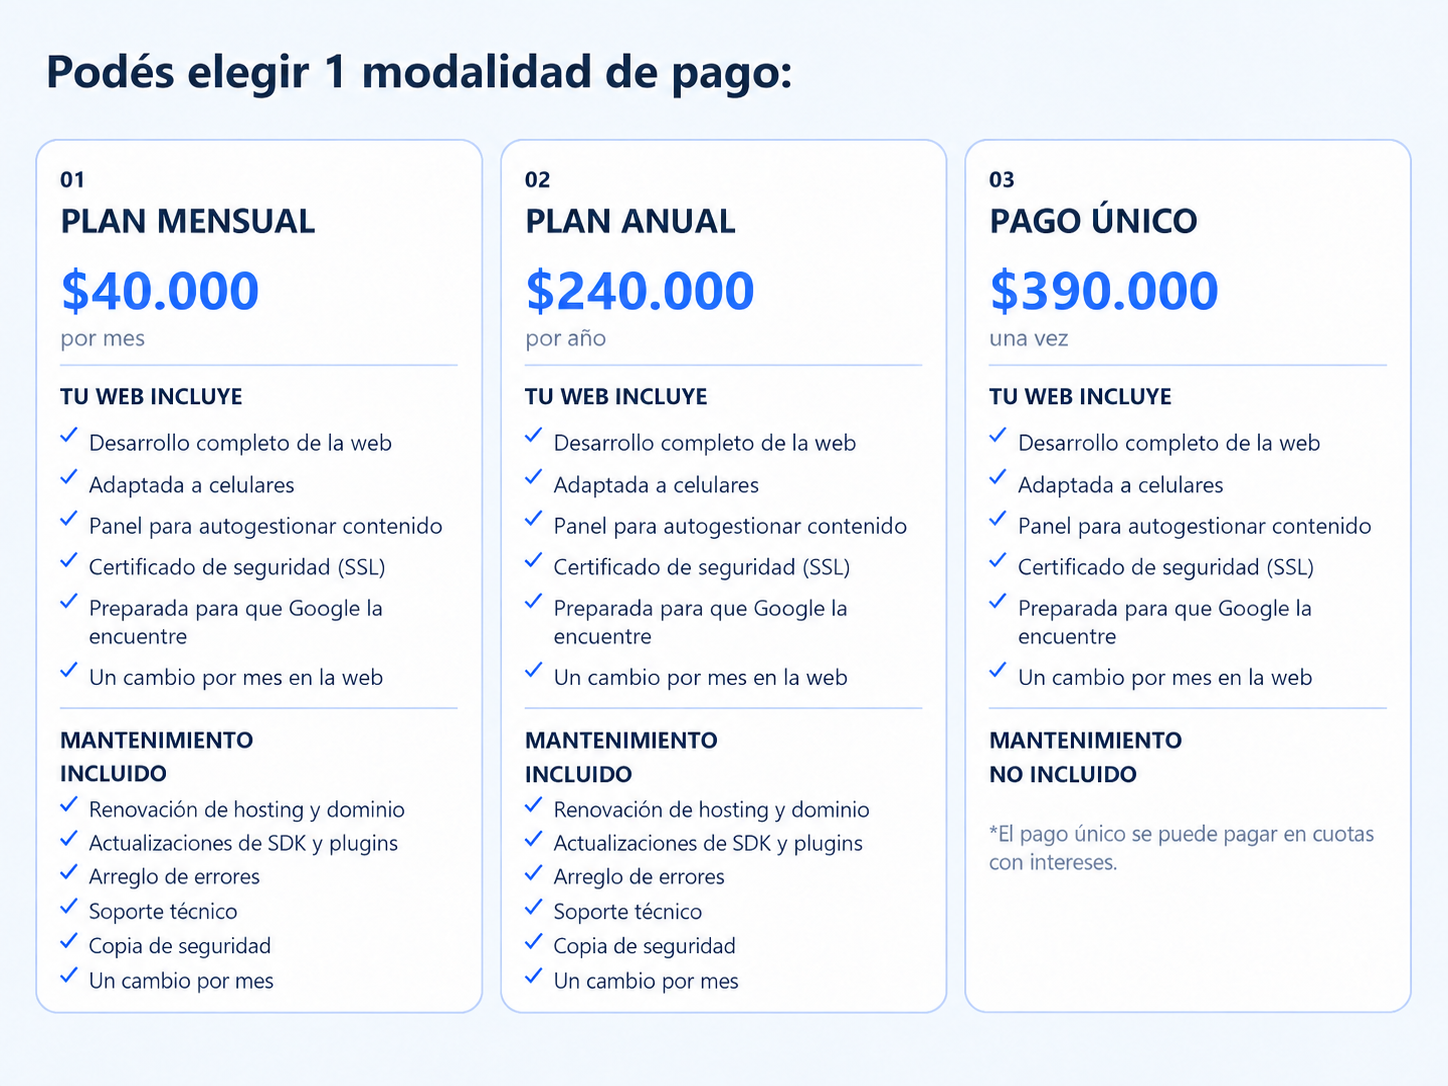
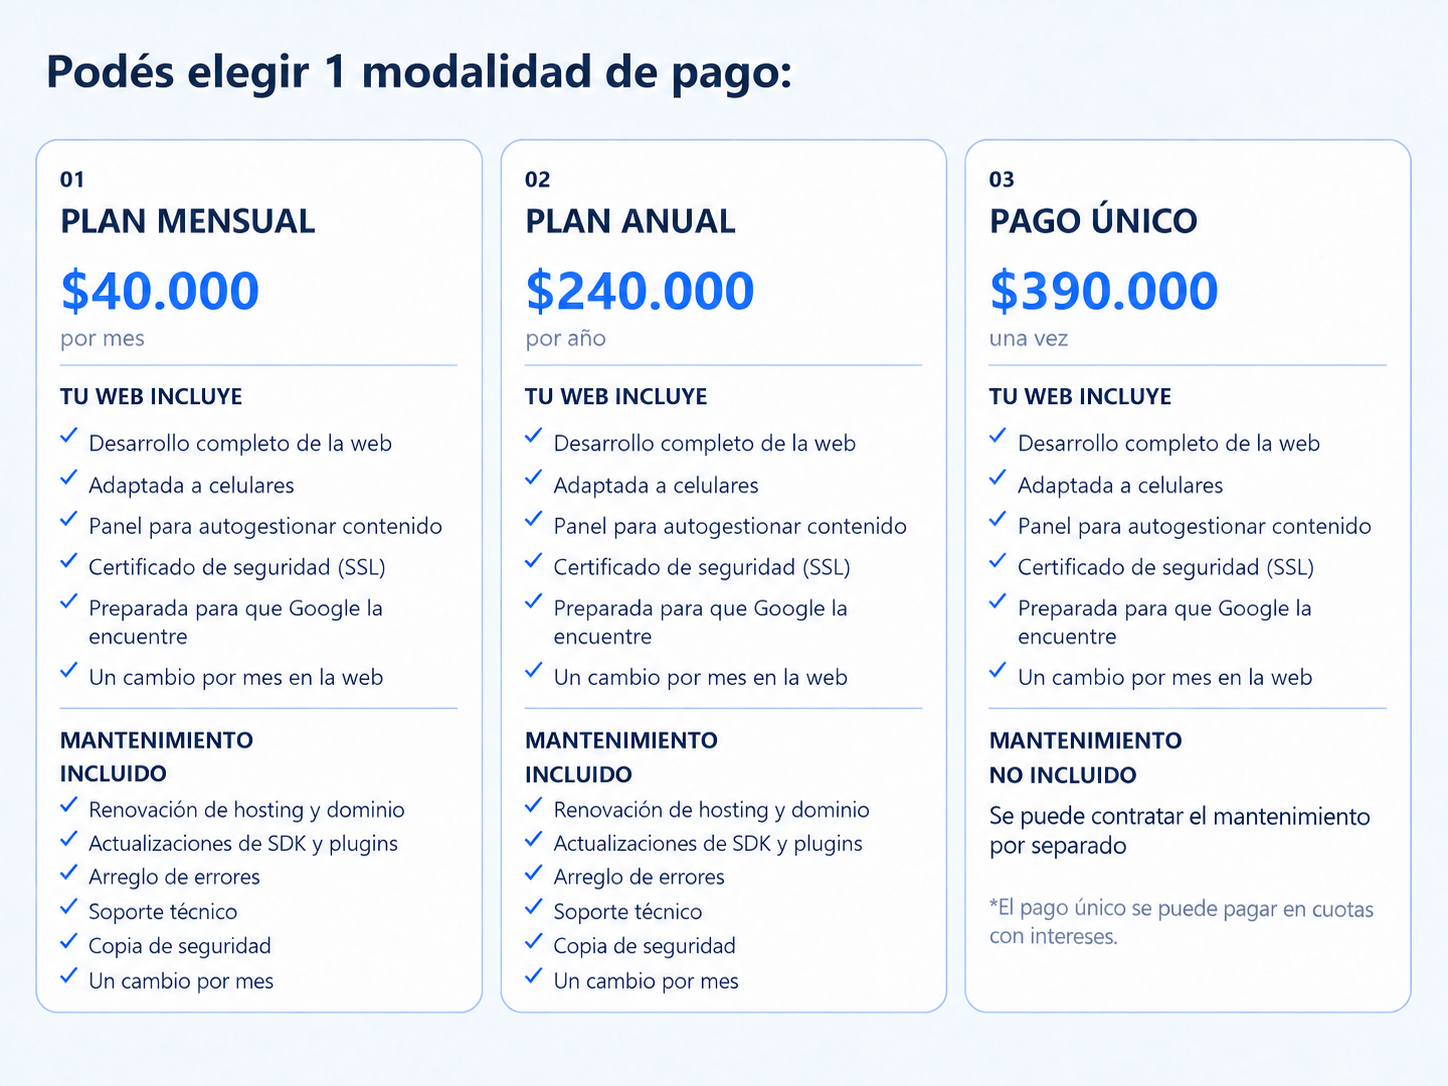
wabot: mensual30 pasa a ser el plan del sitio profesional
Con tienda/cursos/inmobiliaria ya mudados a mensual40, se libera el slug
mensual30 y el link de Mercado Pago que tenía: ahora es el plan mensual del
sitio profesional ($30.000, el mismo monto al que subió con el test de
precios), con su propio contenido. mensual20 queda de baja, igual que quedó
mensual30 cuando se creó mensual40.

Actualiza el botón "Plan $20.000" del panel a "Plan $30.000" (mismo criterio
que el de tienda) y agrega la migración para la respuesta rápida guardada.

También suma "Un cambio por mes" al mantenimiento incluido de mensual40,
para que coincida con las imágenes de modalidades que mandó Pablo, y estas
llegan con esa misma línea más "se puede contratar el mantenimiento por
separado" en el pago único.

diff --git a/pago/mensual30/index.html b/pago/mensual30/index.html
@@ -4,8 +4,8 @@
     <meta charset="UTF-8">
     <meta name="viewport" content="width=device-width, initial-scale=1.0">
     <meta name="robots" content="noindex, nofollow">
-    <title>Plan mensual de tienda online, cursos e inmobiliaria | GokyWebs</title>
-    <meta name="description" content="Tu tienda online, plataforma de cursos o inmobiliaria a medida, con hosting, dominio, soporte, mantenimiento técnico y un cambio por mes incluido, por $30.000 al mes.">
+    <title>Plan mensual del sitio profesional | GokyWebs</title>
+    <meta name="description" content="Tu sitio profesional a medida, con hosting, dominio, soporte, mantenimiento técnico y un cambio por mes incluido, por $30.000 al mes.">
     <link rel="icon" type="image/png" href="../../logo.png">
     <link rel="preconnect" href="https://fonts.googleapis.com">
     <link rel="preconnect" href="https://fonts.gstatic.com" crossorigin>
@@ -24,7 +24,7 @@
     <main>
         <div class="plan-card">
             <span class="plan-eyebrow">Plan mensual</span>
-            <h1 class="plan-title">Tienda online, cursos e inmobiliaria</h1>
+            <h1 class="plan-title">Sitio profesional</h1>
 
             <div class="plan-price-row">
                 <strong class="plan-price">$30.000</strong>
@@ -35,8 +35,6 @@
                 <h2>Tu web incluye</h2>
                 <ul class="plan-check-list">
                     <li>Desarrollo completo de la web, a medida</li>
-                    <li>Panel para editar vos mismo los textos y las imágenes</li>
-                    <li>Carga de hasta 10 productos</li>
                     <li>Adaptada a celular, tablet y computadora</li>
                     <li>Preparada para que Google la encuentre</li>
                     <li>Certificado de seguridad (SSL)</li>
@@ -53,6 +51,7 @@
                     <li>Compatibilidad con servicios de terceros</li>
                     <li>Copias de seguridad periódicas</li>
                     <li>Soporte técnico por WhatsApp</li>
+                    <li>Un cambio por mes</li>
                 </ul>
             </section>
 
@@ -73,12 +72,12 @@
                 </ul>
             </section>
 
-            <p class="plan-note"><strong>Adicionales:</strong> $500 por producto adicional a los 10 incluidos, cuando lo cargamos nosotros (desde tu panel lo cargás vos sin costo). Un cambio extra al incluido cada mes y un rediseño completo también se cotizan aparte.</p>
+            <p class="plan-note"><strong>Adicionales:</strong> un cambio extra al incluido cada mes y un rediseño completo de la web se cotizan aparte.</p>
         </div>
     </main>
 
-    <p class="support">Si tenés alguna duda, <a href="https://wa.me/5491125068578?text=Hola%20GokyWebs%2C%20tengo%20una%20consulta%20sobre%20el%20plan%20mensual%20de%20tienda%20online%2C%20cursos%20e%20inmobiliaria." target="_blank" rel="noopener noreferrer">escribinos por WhatsApp</a>.</p>
+    <p class="support">Si tenés alguna duda, <a href="https://wa.me/5491125068578?text=Hola%20GokyWebs%2C%20tengo%20una%20consulta%20sobre%20el%20plan%20mensual%20del%20sitio%20profesional." target="_blank" rel="noopener noreferrer">escribinos por WhatsApp</a>.</p>
 
-    <footer class="footer">© 2026 GokyWebs · Plan mensual de tienda online, cursos e inmobiliaria</footer>
+    <footer class="footer">© 2026 GokyWebs · Plan mensual del sitio profesional</footer>
 </body>
 </html>

diff --git a/pago/mensual40/index.html b/pago/mensual40/index.html
@@ -53,6 +53,7 @@
                     <li>Compatibilidad con servicios de terceros</li>
                     <li>Copias de seguridad periódicas</li>
                     <li>Soporte técnico por WhatsApp</li>
+                    <li>Un cambio por mes</li>
                 </ul>
             </section>
 

diff --git a/wabot/respuestas-rapidas.php b/wabot/respuestas-rapidas.php
@@ -34,7 +34,7 @@ function wabot_respuestas_rapidas_default() {
         ]],
         ['ico' => '💳', 'titulo' => 'Pagos', 'items' => [
             "Te paso los datos para la seña. En cuanto se acredite arrancamos con el desarrollo:\n\nEDITAR DATOS DE PAGO",
-            'Te mando el link de Mercado Pago para activar el plan mensual del sitio profesional ($20.000 por mes). Una vez realizado el pago queda activo el servicio: gokywebs.com/pago/mensual20',
+            'Te mando el link de Mercado Pago para activar el plan mensual del sitio profesional ($30.000 por mes). Una vez realizado el pago queda activo el servicio: gokywebs.com/pago/mensual30',
             'Te mando el link de Mercado Pago para activar el plan mensual de la tienda, los cursos o la inmobiliaria ($40.000 por mes). Una vez realizado el pago queda activo el servicio: gokywebs.com/pago/mensual40',
             'Sí, podés pagar con tarjeta. Te paso el link de Mercado Pago y ahí elegís las cuotas.',
             '¡Recibido! Ya arrancamos con tu web. En unos días te muestro los primeros avances.',
@@ -409,6 +409,28 @@ function wabot_respuestas_rapidas_plan_otros_40k_26sep($categorias) {
     return $categorias;
 }
 
+/**
+ * Test de precios (26-sep): el sitio profesional pasa de $20.000 a $30.000
+ * por mes, reutilizando la página y el link de Mercado Pago que hasta ahora
+ * eran de tienda/cursos/inmobiliaria (ese grupo se mudó a mensual40). Mismo
+ * criterio que las otras migraciones de esta familia: texto exacto, lo que
+ * Pablo haya editado a mano no se toca.
+ */
+function wabot_respuestas_rapidas_plan_landing_30k_26sep($categorias) {
+    $viejo = 'Te mando el link de Mercado Pago para activar el plan mensual del sitio profesional ($20.000 por mes). Una vez realizado el pago queda activo el servicio: gokywebs.com/pago/mensual20';
+    $nuevo = 'Te mando el link de Mercado Pago para activar el plan mensual del sitio profesional ($30.000 por mes). Una vez realizado el pago queda activo el servicio: gokywebs.com/pago/mensual30';
+    foreach ($categorias as &$categoria) {
+        if (mb_strtolower(trim((string)($categoria['titulo'] ?? ''))) !== 'pagos') continue;
+        $items = [];
+        foreach ((array)($categoria['items'] ?? []) as $texto) {
+            $items[] = (string)$texto === $viejo ? $nuevo : $texto;
+        }
+        $categoria['items'] = array_values(array_unique($items));
+    }
+    unset($categoria);
+    return $categorias;
+}
+
 function wabot_respuestas_rapidas_load() {
     wabot_ensure_dirs();
     $ruta = WABOT_DATA . '/respuestas-rapidas.json';
@@ -416,11 +438,11 @@ function wabot_respuestas_rapidas_load() {
     $leido = json_decode((string)@file_get_contents($ruta), true);
     $normalizado = wabot_respuestas_rapidas_normalizar($leido);
     if ($normalizado === null) return wabot_respuestas_rapidas_default();
-    $migrado = wabot_respuestas_rapidas_plan_otros_40k_26sep(wabot_respuestas_rapidas_links_mensuales_25sep(wabot_respuestas_rapidas_precios_al_dia(wabot_respuestas_rapidas_textos_21sep(
+    $migrado = wabot_respuestas_rapidas_plan_landing_30k_26sep(wabot_respuestas_rapidas_plan_otros_40k_26sep(wabot_respuestas_rapidas_links_mensuales_25sep(wabot_respuestas_rapidas_precios_al_dia(wabot_respuestas_rapidas_textos_21sep(
         wabot_respuestas_rapidas_planes_19sep(
             wabot_respuestas_rapidas_completar_precios(wabot_respuestas_rapidas_migrar_legacy($normalizado))
         )
-    ))));
+    )))));
     if ($migrado !== $normalizado) {
         $json = json_encode($migrado, JSON_UNESCAPED_UNICODE | JSON_PRETTY_PRINT);
         if (is_string($json)) wabot_json_guardar_atomico($ruta, $json);

diff --git a/wabot/admin.php b/wabot/admin.php
@@ -2198,9 +2198,11 @@ function burbujaCita(t, chat) {
                         <button type="button" class="sec form-copiar" data-tel="<?= $e($convClave) ?>"
                             title="Copia el link del formulario con el código de esta conversación, para mandárselo vos">Copiar form</button>
                         <?php /* Los dos links de pago del plan mensual, listos para mandar (25-sep;
-                               tienda/cursos/inmobiliaria pasó a $40.000 el 26-sep con el test de precios). */ ?>
-                        <button type="button" class="sec" id="btnPlan20"
-                            title="Escribe el mensaje con el link de pago del plan mensual del sitio profesional">Plan $20.000</button>
+                               con el test de precios del 26-sep, sitio profesional pasó a $30.000
+                               —reutiliza el link de Mercado Pago que antes era de tienda/cursos/
+                               inmobiliaria— y ese grupo pasó a $40.000, con un link nuevo). */ ?>
+                        <button type="button" class="sec" id="btnPlan30"
+                            title="Escribe el mensaje con el link de pago del plan mensual del sitio profesional">Plan $30.000</button>
                         <button type="button" class="sec" id="btnPlan40"
                             title="Escribe el mensaje con el link de pago del plan mensual de tienda, cursos e inmobiliaria">Plan $40.000</button>
                         <?php if ((int)$conv['pausado_hasta'] > time()): ?>
@@ -2982,11 +2984,11 @@ function burbujaCita(t, chat) {
             txt.setSelectionRange(cursor, cursor);
         }
 
-        /* Los dos botones de "Plan $20.000" / "Plan $40.000" del encabezado:
+        /* Los dos botones de "Plan $30.000" / "Plan $40.000" del encabezado:
          * escriben directo el mensaje con el link de pago, sin pasar por el
          * buscador de respuestas rápidas. */
-        document.getElementById('btnPlan20')?.addEventListener('click', () => {
-            rrInsertar('Te mando el link de Mercado Pago para activar el plan mensual del sitio profesional ($20.000 por mes). Una vez realizado el pago queda activo el servicio: gokywebs.com/pago/mensual20');
+        document.getElementById('btnPlan30')?.addEventListener('click', () => {
+            rrInsertar('Te mando el link de Mercado Pago para activar el plan mensual del sitio profesional ($30.000 por mes). Una vez realizado el pago queda activo el servicio: gokywebs.com/pago/mensual30');
         });
         document.getElementById('btnPlan40')?.addEventListener('click', () => {
             rrInsertar('Te mando el link de Mercado Pago para activar el plan mensual de la tienda, los cursos o la inmobiliaria ($40.000 por mes). Una vez realizado el pago queda activo el servicio: gokywebs.com/pago/mensual40');
